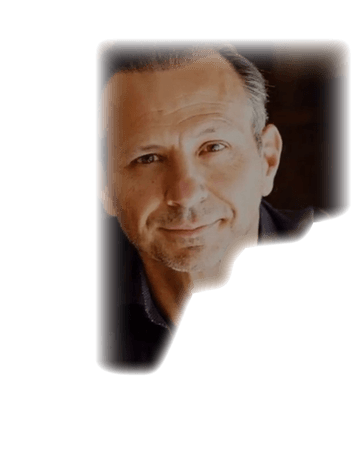
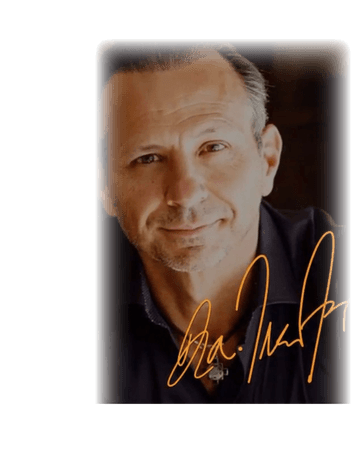
chore: update README and image assets for Dr. Travis Fox portrait
- Revised README to clarify the status of the Dr. Travis Fox portrait, indicating the use of the full original photo and the need for a signature-free version.
- Updated instructions for regenerating the OG image based on potential changes to the portrait.
- Modified the build script to accommodate the new image handling logic, ensuring proper processing of the portrait with or without the signature.
- Updated multiple image files for the portrait in various formats (AVIF, PNG, WEBP) to reflect the latest changes.

Changed region(s): [[0.2444, 0.4667, 0.9778, 0.9022]]

diff --git a/README.md b/README.md
@@ -36,11 +36,11 @@ If you are developing a production application, we recommend using TypeScript wi
 ### Art: recreated vs. still needed
 - **Recreated in SVG/CSS:** mountain ridgelines with rim light, the glowing trail, sun flare, candlesticks, grid, haze, vignette, metallic gold type, light streak, brushed gold header and button, the urgency card's dusk mountains.
 - **Icons:** `lucide-react` (ISC license).
-- **OG image:** `public/trader/og-wealth-blueprint.jpg`, generated from the hero. Regenerate it after the Travis photo is replaced.
+- **OG image:** `public/trader/og-wealth-blueprint.jpg`, generated from the hero. Regenerate it if the portraits change.
 - **Worth licensing/shooting:** a real mountain-at-dusk photo for the urgency card, and a dedicated OG design if wanted.
 
 ### Not matched from the mockup
-- **Dr. Travis Fox portrait (launch blocker).** The orange signature in the original crosses his collar under his chin, so the current file is an interim, alpha-shaped crop of only the clean region (no pixels altered). Supply a clean head-and-shoulders photo, drop it in `assets/trader-event/`, update the `travis` entry in the script (set `signatureSafeCrop: false`), and run `npm run build:trader-event-images`.
+- **Dr. Travis Fox portrait.** Uses the full original photo, so the orange signature on his chest shows (approved; it fades behind the title). For a cleaner look, supply a signature-free photo, drop it in `assets/trader-event/`, update the `travis` entry in the script, and run `npm run build:trader-event-images` (then regenerate the OG image).
 - **Form fields** render inside GHL's iframe, so their look depends on the GHL Custom CSS.
 - **Time zone** is not confirmed, so the JSON-LD has no UTC offset (TODO in `trader-event.html`).
 - **Copy:** "SURRISE" fixed to "SURPRISE"; all em dashes removed.
